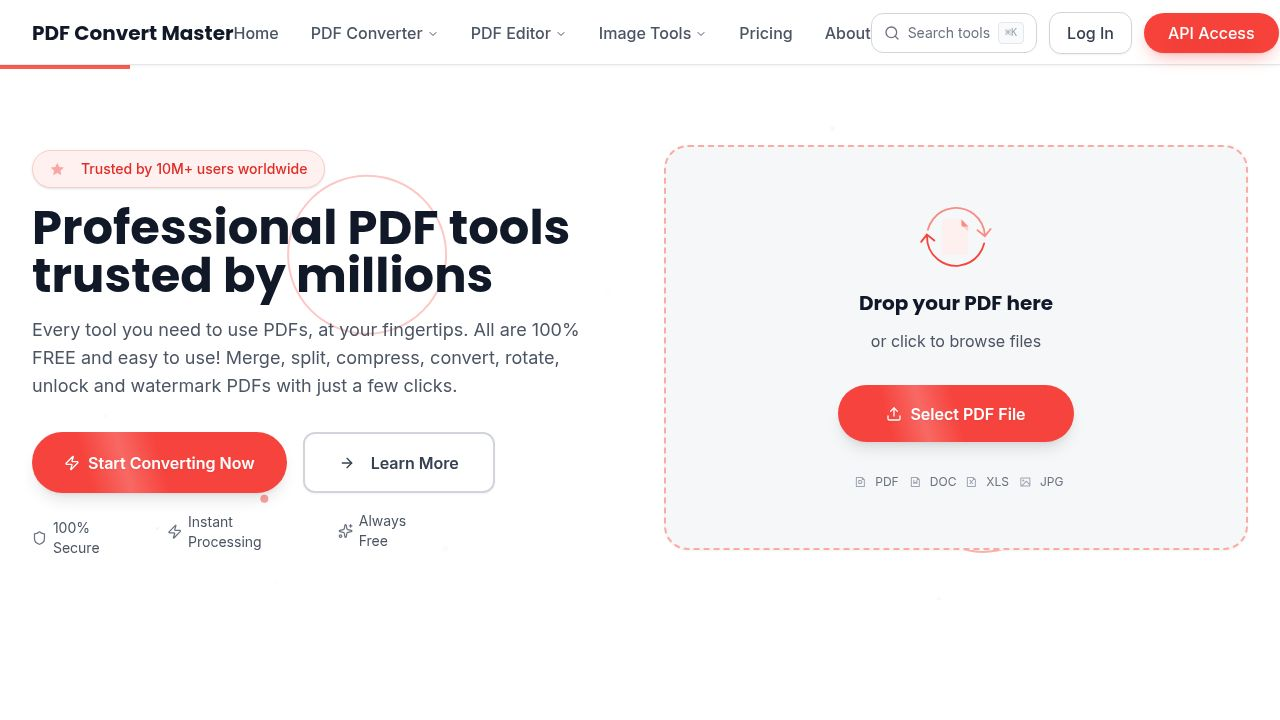
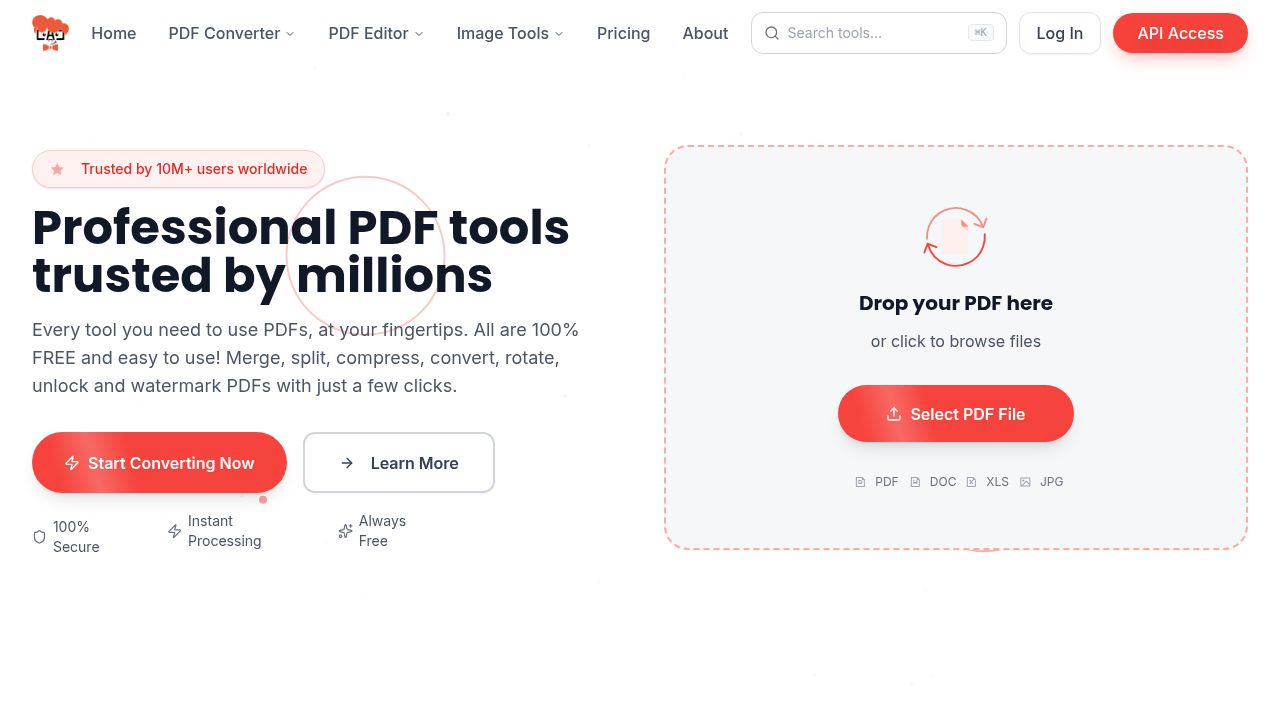
Remove upload page headers and standardize the design across all tools
Modify ToolPageShell to conditionally hide the header on upload pages, ensuring a consistent upload experience across PDF and image tools by utilizing a shared UploadDropzone component.

Replit-Commit-Author: Agent
Replit-Commit-Session-Id: fcc3e910-1164-40c8-8a0f-dc7942a8569c
Replit-Commit-Checkpoint-Type: full_checkpoint
Replit-Commit-Event-Id: 10f9b4e4-ee7f-473c-82fc-b18756de68dc
Replit-Commit-Screenshot-Url: https://storage.googleapis.com/screenshot-production-us-central1/0f3df87a-40c3-438e-9b18-d45b6613d5bf/fcc3e910-1164-40c8-8a0f-dc7942a8569c/yTzZ8cl
Replit-Helium-Checkpoint-Created: true

diff --git a/artifacts/pdf-convert-master/src/components/upload/ToolPageShell.tsx b/artifacts/pdf-convert-master/src/components/upload/ToolPageShell.tsx
@@ -17,6 +17,12 @@ export interface ToolPageShellProps {
   maxWidth?: string;
   /** Particle density for the animated background. */
   particleCount?: number;
+  /**
+   * Show the centered icon + title + description header. Defaults to true.
+   * The upload (empty) state of every tool hides it so all upload pages share
+   * the same clean dropzone-only design.
+   */
+  showHeader?: boolean;
   children: React.ReactNode;
 }
 
@@ -34,34 +40,37 @@ export const ToolPageShell: React.FC<ToolPageShellProps> = ({
   trustText,
   maxWidth = "max-w-5xl",
   particleCount = 14,
+  showHeader = true,
   children,
 }) => {
   return (
     <div className="relative min-h-screen overflow-hidden bg-white">
       <AnimatedBackground particleCount={particleCount} className="opacity-60" />
       <div className={`relative z-10 w-full ${maxWidth} mx-auto px-4 sm:px-6 py-10`}>
-        <div className="text-center mb-8">
-          <div className="flex justify-center mb-4">
-            <div
-              className={`w-16 h-16 flex items-center justify-center rounded-2xl border-2 shadow-sm ${iconBoxClassName}`}
-            >
-              {icon}
+        {showHeader && (
+          <div className="text-center mb-8">
+            <div className="flex justify-center mb-4">
+              <div
+                className={`w-16 h-16 flex items-center justify-center rounded-2xl border-2 shadow-sm ${iconBoxClassName}`}
+              >
+                {icon}
+              </div>
             </div>
+            <h1
+              className="text-3xl font-bold text-gray-900 mb-2"
+              data-testid="text-tool-title"
+            >
+              {title}
+            </h1>
+            <p className="text-gray-600 max-w-2xl mx-auto">{description}</p>
+            {trustText && (
+              <p className="inline-flex items-center gap-1.5 text-xs text-gray-400 mt-3">
+                <ShieldCheck className="w-3.5 h-3.5 text-green-600" />
+                {trustText}
+              </p>
+            )}
           </div>
-          <h1
-            className="text-3xl font-bold text-gray-900 mb-2"
-            data-testid="text-tool-title"
-          >
-            {title}
-          </h1>
-          <p className="text-gray-600 max-w-2xl mx-auto">{description}</p>
-          {trustText && (
-            <p className="inline-flex items-center gap-1.5 text-xs text-gray-400 mt-3">
-              <ShieldCheck className="w-3.5 h-3.5 text-green-600" />
-              {trustText}
-            </p>
-          )}
-        </div>
+        )}
         {children}
       </div>
     </div>

diff --git a/artifacts/pdf-convert-master/src/components/image-tools/ImageDropzone.tsx b/artifacts/pdf-convert-master/src/components/image-tools/ImageDropzone.tsx
@@ -1,5 +1,6 @@
 import React from "react";
 import { UploadDropzone } from "@/components/upload/UploadDropzone";
+import { toolConfigs, getToolActionLabel } from "@/lib/toolConfig";
 
 interface ImageDropzoneProps {
   acceptedFormats: string[];
@@ -10,7 +11,12 @@ interface ImageDropzoneProps {
   toolId?: string;
 }
 
-/** Single-image upload dropzone — a thin wrapper over the shared UploadDropzone. */
+/**
+ * Single-image upload dropzone — a thin wrapper over the shared UploadDropzone.
+ * Mirrors the PDF converter / editor upload design: it pulls the tool's own
+ * drop-area copy and action label from its config so every image tool shares
+ * the same look. Falls back to generic image copy when no config is found.
+ */
 export const ImageDropzone: React.FC<ImageDropzoneProps> = ({
   acceptedFormats,
   maxSizeMB,
@@ -18,13 +24,17 @@ export const ImageDropzone: React.FC<ImageDropzoneProps> = ({
   testId,
   toolId,
 }) => {
+  const cfg = toolId ? toolConfigs[toolId] : undefined;
+  const resolvedTitle = cfg?.dropAreaText ?? "Drop your image here";
+  const resolvedActionLabel = cfg ? getToolActionLabel(cfg) : "Select Image";
+
   return (
     <UploadDropzone
       acceptedFormats={acceptedFormats}
       maxFileSize={maxSizeMB}
       toolId={toolId}
-      title="Drop your image here"
-      actionLabel="Select Image"
+      title={resolvedTitle}
+      actionLabel={resolvedActionLabel}
       onFiles={(files) => onFile(files[0])}
       testId={testId || "dropzone-image"}
     />

diff --git a/artifacts/pdf-convert-master/src/components/image-tools/ImageToolShell.tsx b/artifacts/pdf-convert-master/src/components/image-tools/ImageToolShell.tsx
@@ -6,6 +6,8 @@ interface ImageToolShellProps {
   description: string;
   icon: React.ReactNode;
   iconBg: string;
+  /** Hide the title/description header (used on the upload empty state). */
+  hideHeader?: boolean;
   children: React.ReactNode;
 }
 
@@ -14,6 +16,7 @@ export const ImageToolShell: React.FC<ImageToolShellProps> = ({
   description,
   icon,
   iconBg,
+  hideHeader = false,
   children,
 }) => {
   return (
@@ -22,6 +25,7 @@ export const ImageToolShell: React.FC<ImageToolShellProps> = ({
       description={description}
       icon={icon}
       iconBoxClassName={iconBg}
+      showHeader={!hideHeader}
     >
       <div className="bg-white rounded-2xl shadow-xl border border-gray-200 p-5 md:p-8">
         {children}

diff --git a/artifacts/pdf-convert-master/src/components/pdf-tools/PdfToolShell.tsx b/artifacts/pdf-convert-master/src/components/pdf-tools/PdfToolShell.tsx
@@ -10,6 +10,8 @@ interface PdfToolLayoutProps {
   iconBorderColor: string;
   title: string;
   description: string;
+  /** Hide the title/description header (used on the upload empty state). */
+  hideHeader?: boolean;
   children: React.ReactNode;
 }
 
@@ -21,6 +23,7 @@ export function PdfToolLayout({
   iconBorderColor,
   title,
   description,
+  hideHeader = false,
   children,
 }: PdfToolLayoutProps) {
   return (
@@ -30,6 +33,7 @@ export function PdfToolLayout({
       icon={<Icon className={`w-7 h-7 ${iconColor}`} />}
       iconBoxClassName={`${iconBorderColor} ${iconBgColor}`}
       trustText="Processed entirely in your browser — your file never leaves your device."
+      showHeader={!hideHeader}
     >
       {children}
     </ToolPageShell>

diff --git a/artifacts/pdf-convert-master/src/components/ConversionWorkflow.tsx b/artifacts/pdf-convert-master/src/components/ConversionWorkflow.tsx
@@ -514,6 +514,7 @@ export const ConversionWorkflow: React.FC<ConversionWorkflowProps> = ({
       icon={toolIcon}
       iconBoxClassName={iconBg}
       maxWidth="max-w-4xl"
+      showHeader={stage !== "upload"}
     >
       {/* Main Workflow Card */}
       <div className="bg-white rounded-2xl shadow-xl border border-gray-200 overflow-hidden">

diff --git a/artifacts/pdf-convert-master/src/pages/upload/AddImagePdf.tsx b/artifacts/pdf-convert-master/src/pages/upload/AddImagePdf.tsx
@@ -153,6 +153,7 @@ export function AddImagePdfUpload() {
       iconBorderColor={cfg.iconBorderColor}
       title={cfg.title}
       description={cfg.description}
+      hideHeader={pages.length === 0}
     >
       {pages.length === 0 ? (
         <PdfDropzone

diff --git a/artifacts/pdf-convert-master/src/pages/upload/CropImage.tsx b/artifacts/pdf-convert-master/src/pages/upload/CropImage.tsx
@@ -154,6 +154,7 @@ export const CropImageUpload = () => {
       description="Crop images with an interactive selection. Lock to preset aspect ratios or crop freely, then download or save to the server."
       icon={<CropIcon className="w-8 h-8 text-blue-500" />}
       iconBg="bg-blue-50 border-blue-200 dark:bg-blue-900 dark:border-blue-800"
+      hideHeader={!file}
     >
       {!file ? (
         <ImageDropzone

diff --git a/artifacts/pdf-convert-master/src/pages/upload/CropPdf.tsx b/artifacts/pdf-convert-master/src/pages/upload/CropPdf.tsx
@@ -109,6 +109,7 @@ export function CropPdfUpload() {
       iconBorderColor={cfg.iconBorderColor}
       title={cfg.title}
       description={cfg.description}
+      hideHeader={pages.length === 0}
     >
       {pages.length === 0 ? (
         <PdfDropzone

diff --git a/artifacts/pdf-convert-master/src/pages/upload/DeletePagesPdf.tsx b/artifacts/pdf-convert-master/src/pages/upload/DeletePagesPdf.tsx
@@ -105,6 +105,7 @@ export function DeletePagesPdfUpload() {
       iconBorderColor={cfg.iconBorderColor}
       title={cfg.title}
       description={cfg.description}
+      hideHeader={pages.length === 0}
     >
       {pages.length === 0 ? (
         <PdfDropzone

diff --git a/artifacts/pdf-convert-master/src/pages/upload/OcrPdf.tsx b/artifacts/pdf-convert-master/src/pages/upload/OcrPdf.tsx
@@ -276,6 +276,7 @@ export function OcrPdfUpload() {
       iconBorderColor={cfg.iconBorderColor}
       title={cfg.title}
       description={cfg.description}
+      hideHeader={!file}
     >
       {!file ? (
         <PdfDropzone

diff --git a/artifacts/pdf-convert-master/src/pages/upload/ResizeImage.tsx b/artifacts/pdf-convert-master/src/pages/upload/ResizeImage.tsx
@@ -115,6 +115,7 @@ export const ResizeImageUpload = () => {
       description="Resize images to exact dimensions or scale by percentage. Lock the aspect ratio to avoid distortion, then download or save to the server."
       icon={<Maximize2 className="w-8 h-8 text-blue-500" />}
       iconBg="bg-blue-50 border-blue-200 dark:bg-blue-900 dark:border-blue-800"
+      hideHeader={!file}
     >
       {!file ? (
         <ImageDropzone

diff --git a/artifacts/pdf-convert-master/src/pages/upload/RotateImage.tsx b/artifacts/pdf-convert-master/src/pages/upload/RotateImage.tsx
@@ -125,6 +125,7 @@ export const RotateImageUpload = () => {
       description="Rotate by 90° steps or any custom angle, flip horizontally or vertically, and preview live before you download or save to the server."
       icon={<RotateCw className="w-8 h-8 text-blue-500" />}
       iconBg="bg-blue-50 border-blue-200 dark:bg-blue-900 dark:border-blue-800"
+      hideHeader={!file}
     >
       {!file ? (
         <ImageDropzone